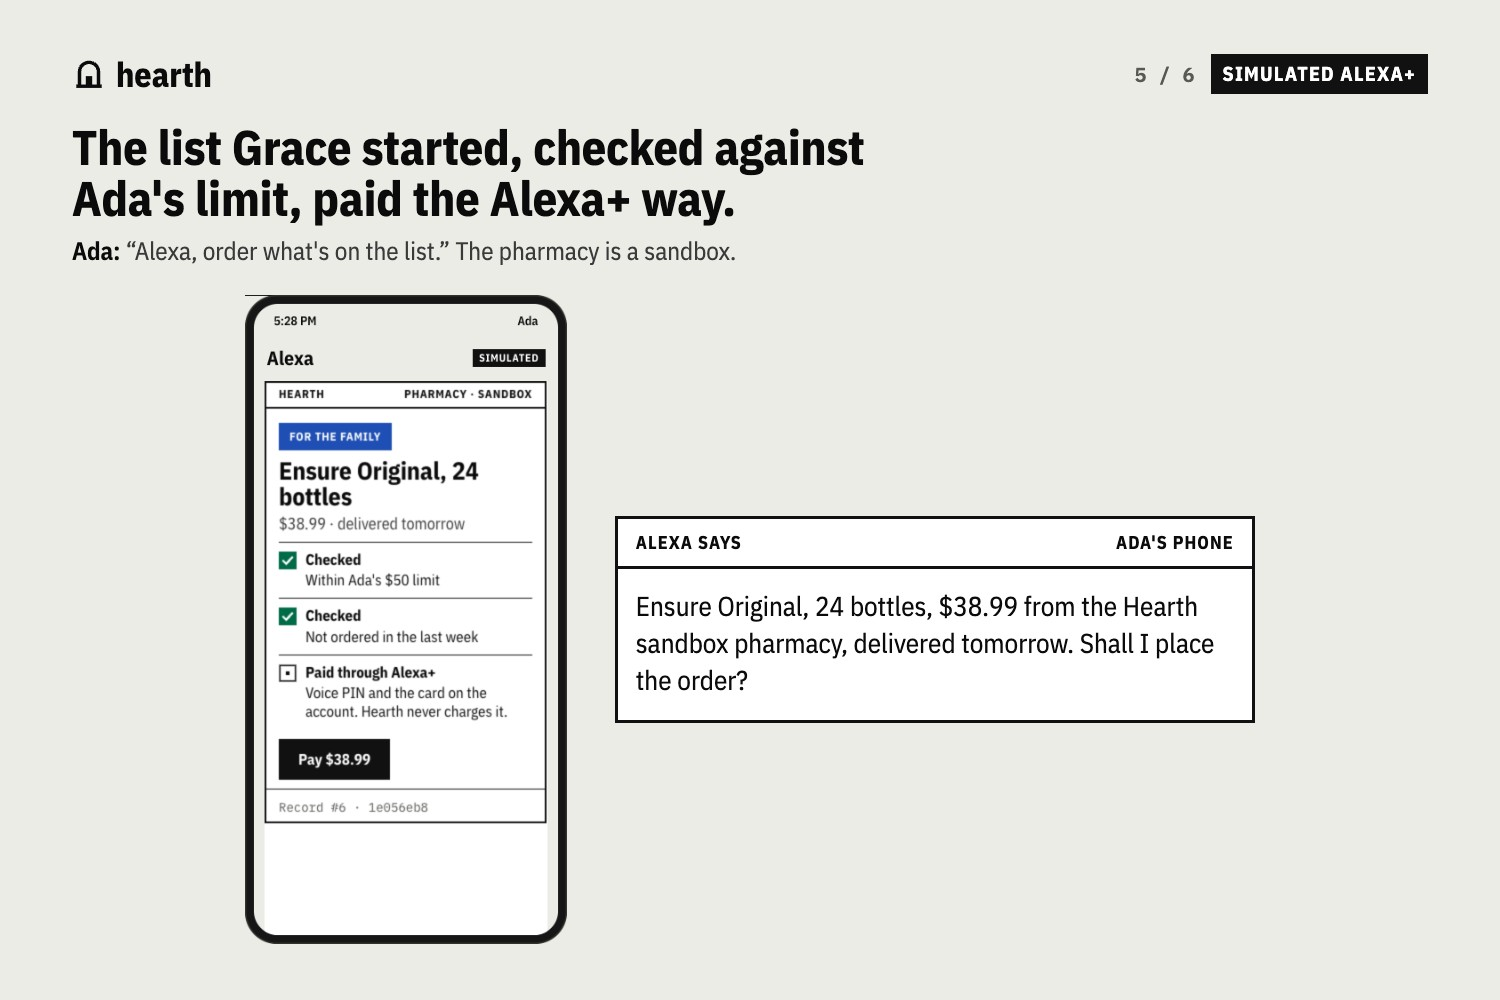
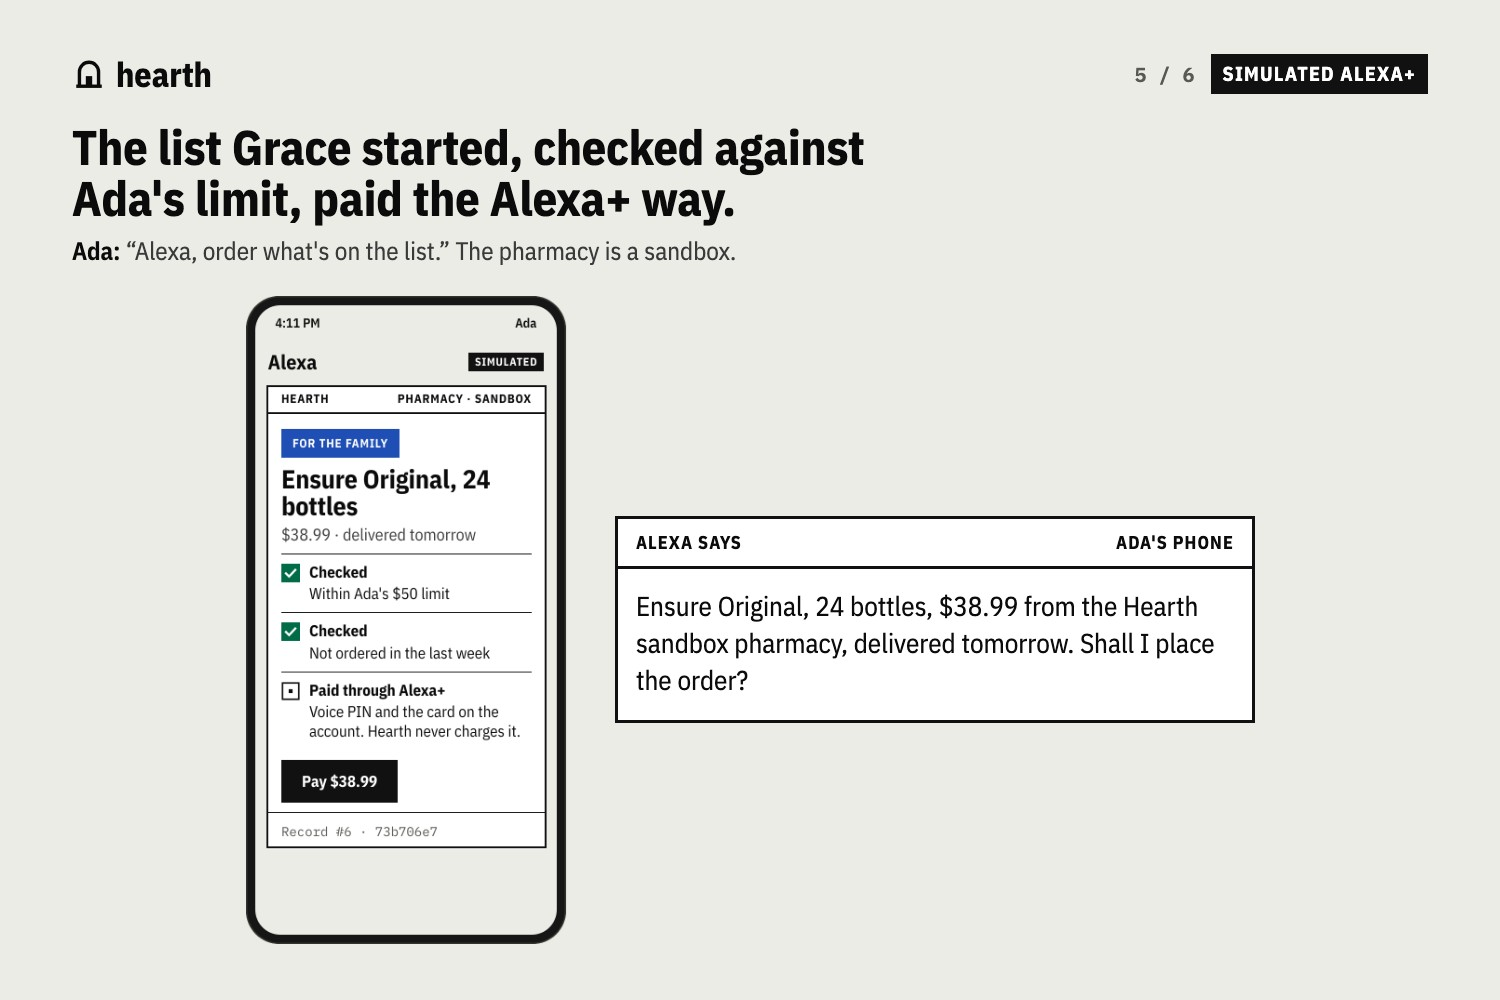
gallery: regenerated with the phone cards fitted; no image clips a label, and the device clock follows HEARTH_TZ

diff --git a/demo/gallery.py b/demo/gallery.py
@@ -97,7 +97,9 @@ async def main(base, out):
     os.makedirs(out, exist_ok=True)
     async with async_playwright() as p:
         browser = await p.chromium.launch(**({"executable_path": CHROME} if CHROME else {}))
-        page = await browser.new_page(viewport={"width": 1600, "height": 900}, device_scale_factor=2)
+        # The device clock is the browser's: give it Hearth's zone (HEARTH_TZ).
+        page = await browser.new_page(viewport={"width": 1600, "height": 900}, device_scale_factor=2,
+                                      timezone_id=os.getenv("HEARTH_TZ") or None)
         errors = []
         page.on("pageerror", lambda e: errors.append(str(e)))
         await page.goto(f"{base}/alexa?mute=1")
